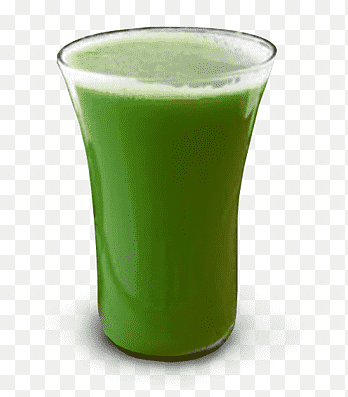
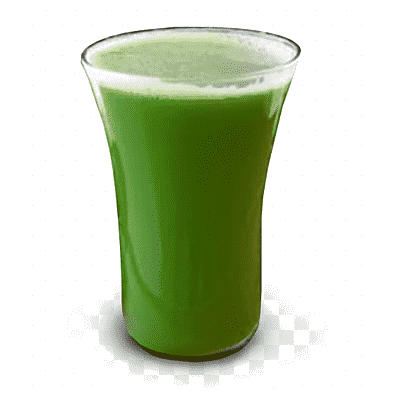
updated the macro styles

diff --git a/day2/lib/core/theme/app_colors.dart b/day2/lib/core/theme/app_colors.dart
@@ -28,14 +28,14 @@ class AppColors {
   /// Light track color behind the calorie ring progress arc (#D3E3E9).
   static const Color ringTrack = Color(0xFFD3E3E9);
 
-  /// Light peach tint background for carbs icon circle (#FFF0E6).
-  static const Color carbsTint = Color(0xFFFFF0E6);
+  /// Exact peach tint background for carbs icon circle from reference image (#FFF0DE).
+  static const Color carbsTint = Color(0xFFFFF0DE);
 
-  /// Light green tint background for protein icon circle (#EAF7EE).
-  static const Color proteinTint = Color(0xFFEAF7EE);
+  /// Exact light green tint background for protein icon circle from reference image (#E5FFDD).
+  static const Color proteinTint = Color(0xFFE5FFDD);
 
-  /// Light grey tint background for fat icon circle (#F2F2F2).
-  static const Color fatTint = Color(0xFFF2F2F2);
+  /// Exact light grey-lavender tint background for fat icon circle from reference image (#EBECF0).
+  static const Color fatTint = Color(0xFFEBECF0);
 
   /// Light grey decorative line under macro label (#E6E6E6).
   static const Color macroLine = Color(0xFFE6E6E6);

diff --git a/day2/lib/core/theme/app_text_styles.dart b/day2/lib/core/theme/app_text_styles.dart
@@ -69,6 +69,7 @@ class AppTextStyles {
   static const TextStyle macroLabel = TextStyle(
     fontFamily: fontFamily,
     fontSize: 12.0,
+    height: 1.1,
     fontWeight: FontWeight.w400,
     color: AppColors.textSecondary,
   );
@@ -77,6 +78,7 @@ class AppTextStyles {
   static const TextStyle macroValue = TextStyle(
     fontFamily: fontFamily,
     fontSize: 14.0,
+    height: 1.1,
     fontWeight: FontWeight.w500,
     color: AppColors.textPrimary,
   );

diff --git a/day2/lib/features/home/presentation/widgets/macro_card.dart b/day2/lib/features/home/presentation/widgets/macro_card.dart
@@ -70,6 +70,7 @@ class MacroCard extends StatelessWidget {
     return Column(
       crossAxisAlignment: CrossAxisAlignment.start,
       mainAxisAlignment: MainAxisAlignment.center,
+      mainAxisSize: MainAxisSize.min,
       children: [
         Text(label, style: AppTextStyles.macroLabel),
         const SizedBox(height: AppSpacing.gap2),
